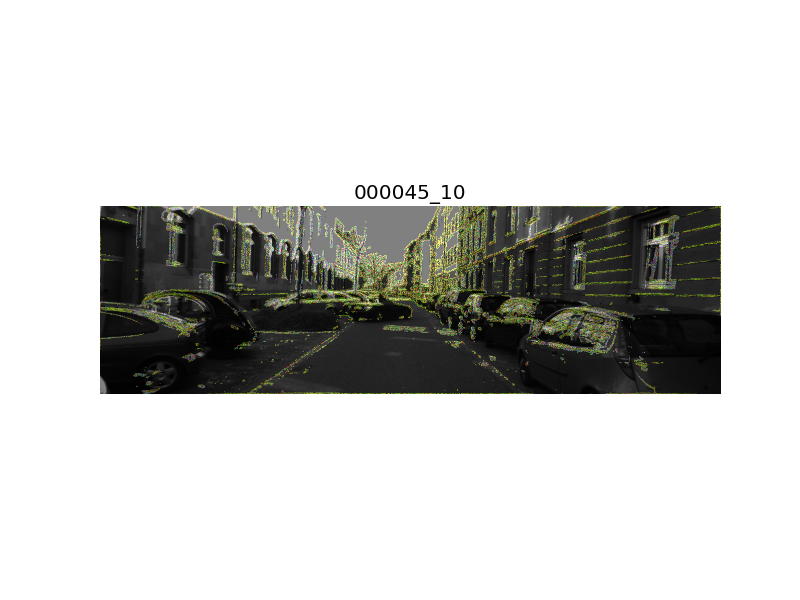
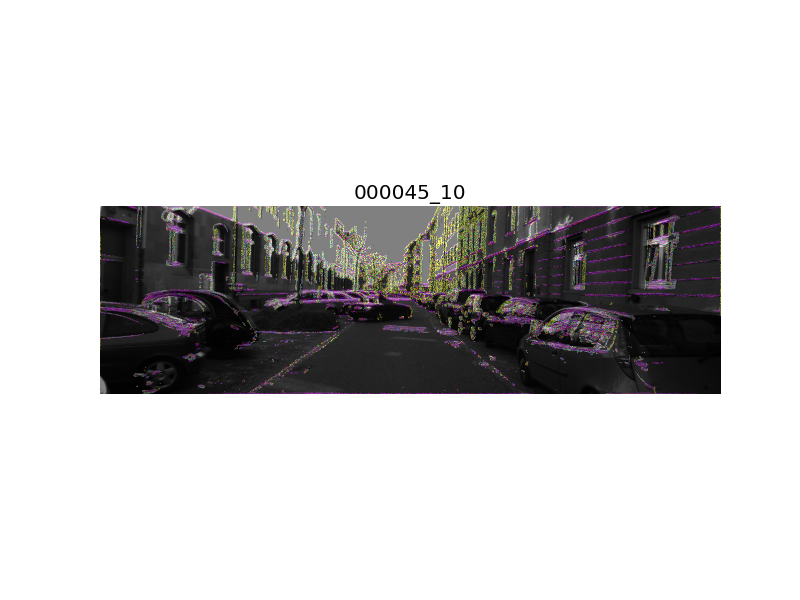
Flag to get angles on degrees

diff --git a/code/metrics/optical_flow.py b/code/metrics/optical_flow.py
@@ -37,9 +37,9 @@ def plot_optical_flow_hsv(img_path, vector_field_path, sequence_name, output_pat
     # Get the optical flow image
     optical_flow, _ = read_flow_field(cv.imread(vector_field_path, cv.IMREAD_UNCHANGED))
 
-    magnitude, angle = cv.cartToPolar(np.square(optical_flow[:, :, 0]), np.square(optical_flow[:, :, 1]))
+    magnitude, angle = cv.cartToPolar(np.square(optical_flow[:, :, 0]), np.square(optical_flow[:, :, 1]),
+                                      None, None, True)
     magnitude = cv.normalize(magnitude, 0, 255, norm_type=cv.NORM_MINMAX)
-    angle = angle * 180 / np.pi / 2
 
     optical_flow_hsv = np.zeros((img.shape[0], img.shape[1], 3), dtype=np.float32)
     optical_flow_hsv[..., 0] = angle
